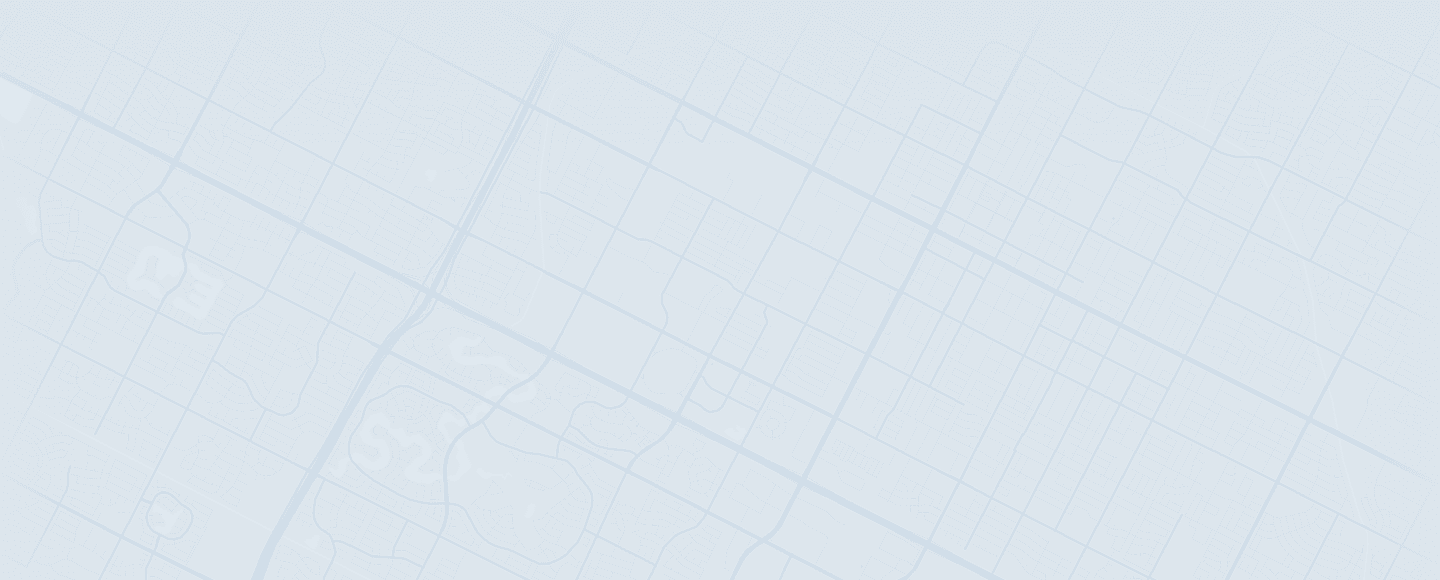
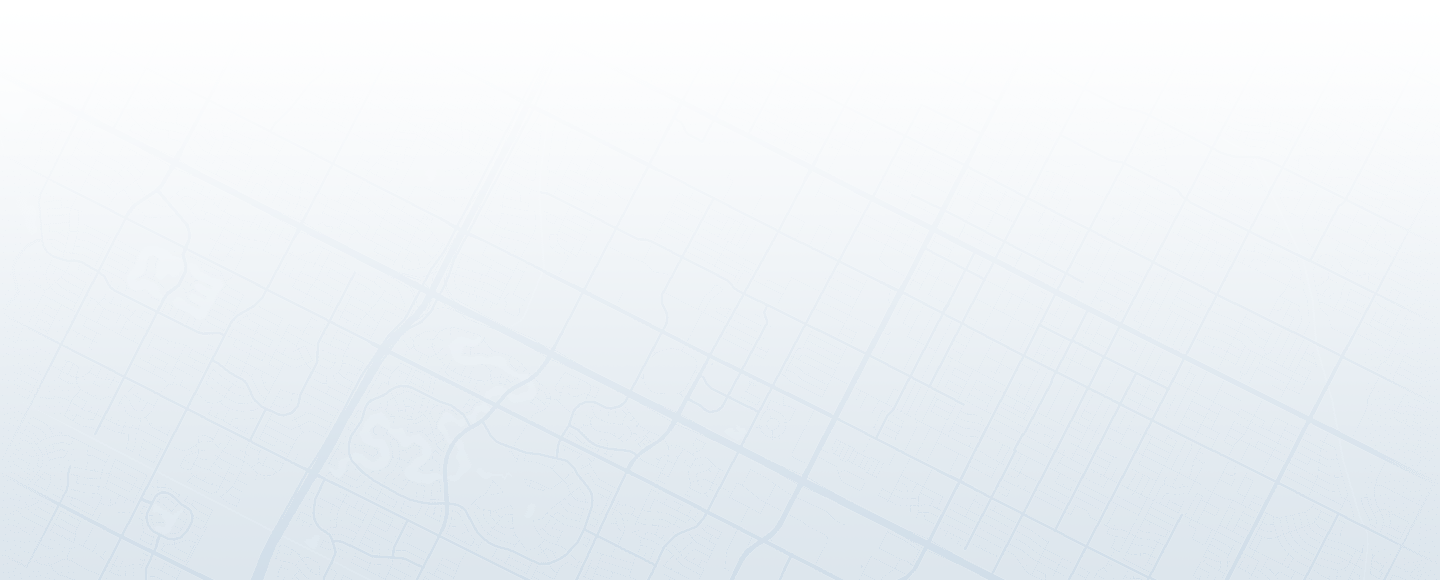
Updated gradient

diff --git a/assets/less/main.less b/assets/less/main.less
@@ -399,7 +399,7 @@ appearance: none;
 		flex-direction: column;
 		height: @heroHeight;
 		padding: 0;
-		background-color: @heroBlue;
+		background-color: @white; //@heroBlue;
 		background-image: url('/assets/images/home-hero-background.png');
 		background-position: 50% bottom;
 		background-repeat: no-repeat;

diff --git a/src/website/root/assets/less/main.less b/src/website/root/assets/less/main.less
@@ -399,7 +399,7 @@ appearance: none;
 		flex-direction: column;
 		height: @heroHeight;
 		padding: 0;
-		background-color: @heroBlue;
+		background-color: @white; //@heroBlue;
 		background-image: url('/assets/images/home-hero-background.png');
 		background-position: 50% bottom;
 		background-repeat: no-repeat;

diff --git a/assets/css/main.css b/assets/css/main.css
@@ -443,7 +443,7 @@ input {
   flex-direction: column;
   height: 500px;
   padding: 0;
-  background-color: #dde6ed;
+  background-color: #fff;
   background-image: url('/assets/images/home-hero-background.png');
   background-position: 50% bottom;
   background-repeat: no-repeat;

diff --git a/src/website/root/assets/css/main.css b/src/website/root/assets/css/main.css
@@ -443,7 +443,7 @@ input {
   flex-direction: column;
   height: 500px;
   padding: 0;
-  background-color: #dde6ed;
+  background-color: #fff;
   background-image: url('/assets/images/home-hero-background.png');
   background-position: 50% bottom;
   background-repeat: no-repeat;
